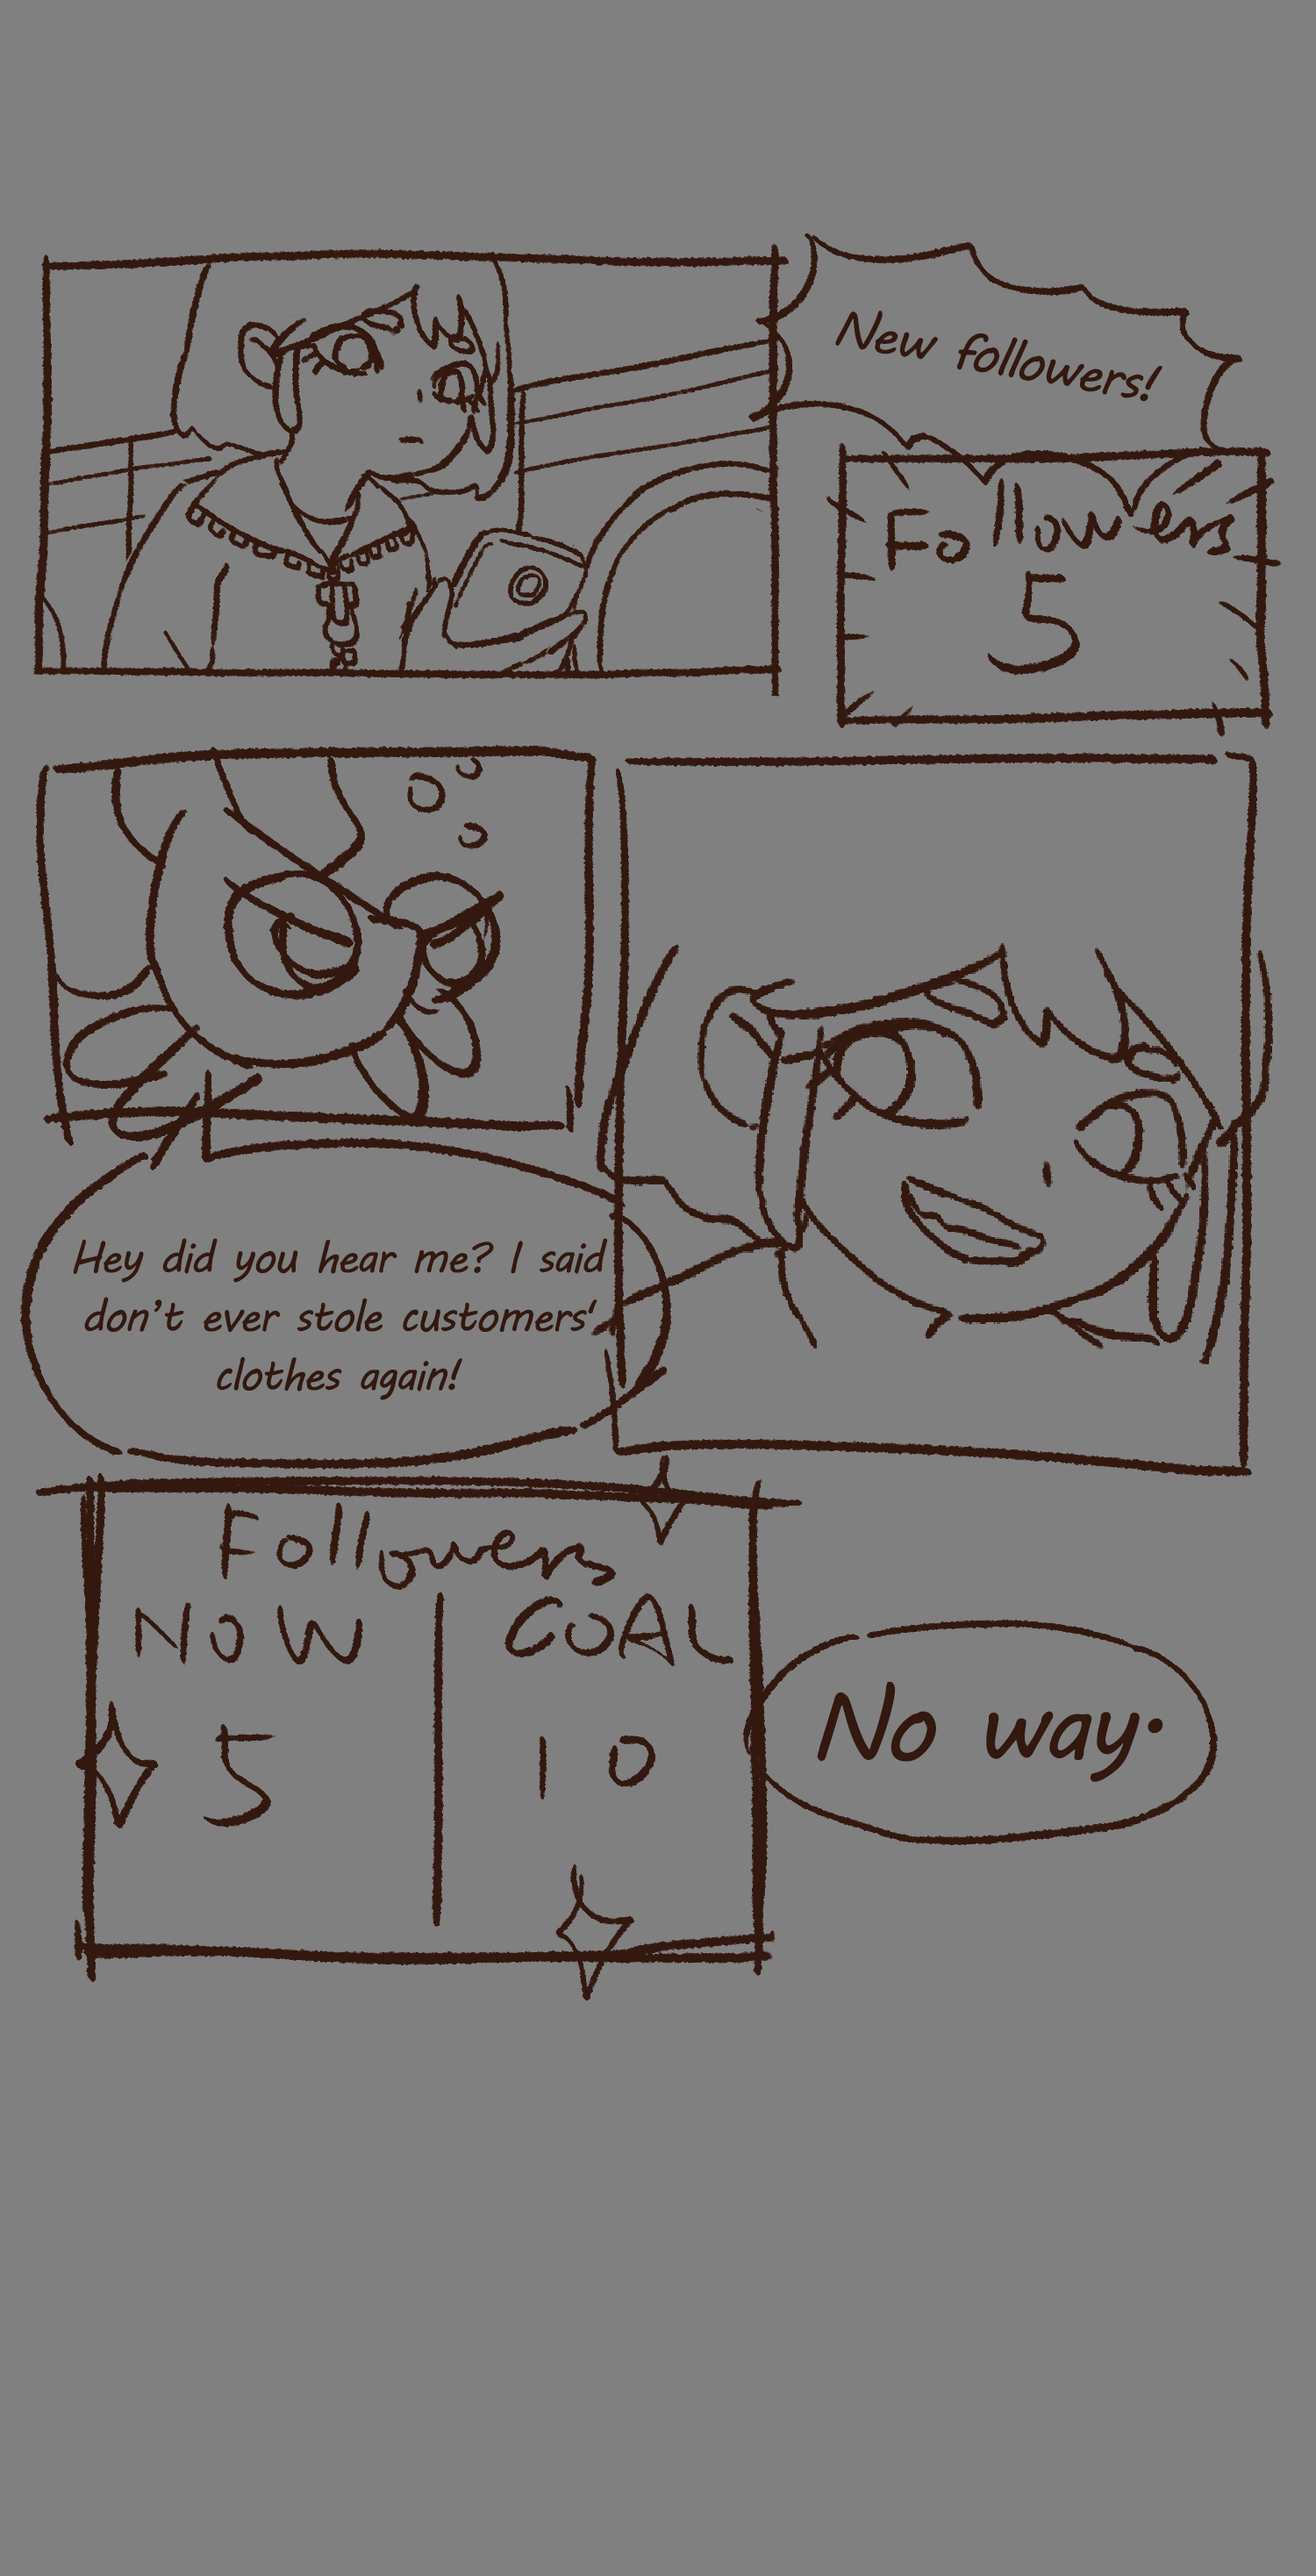
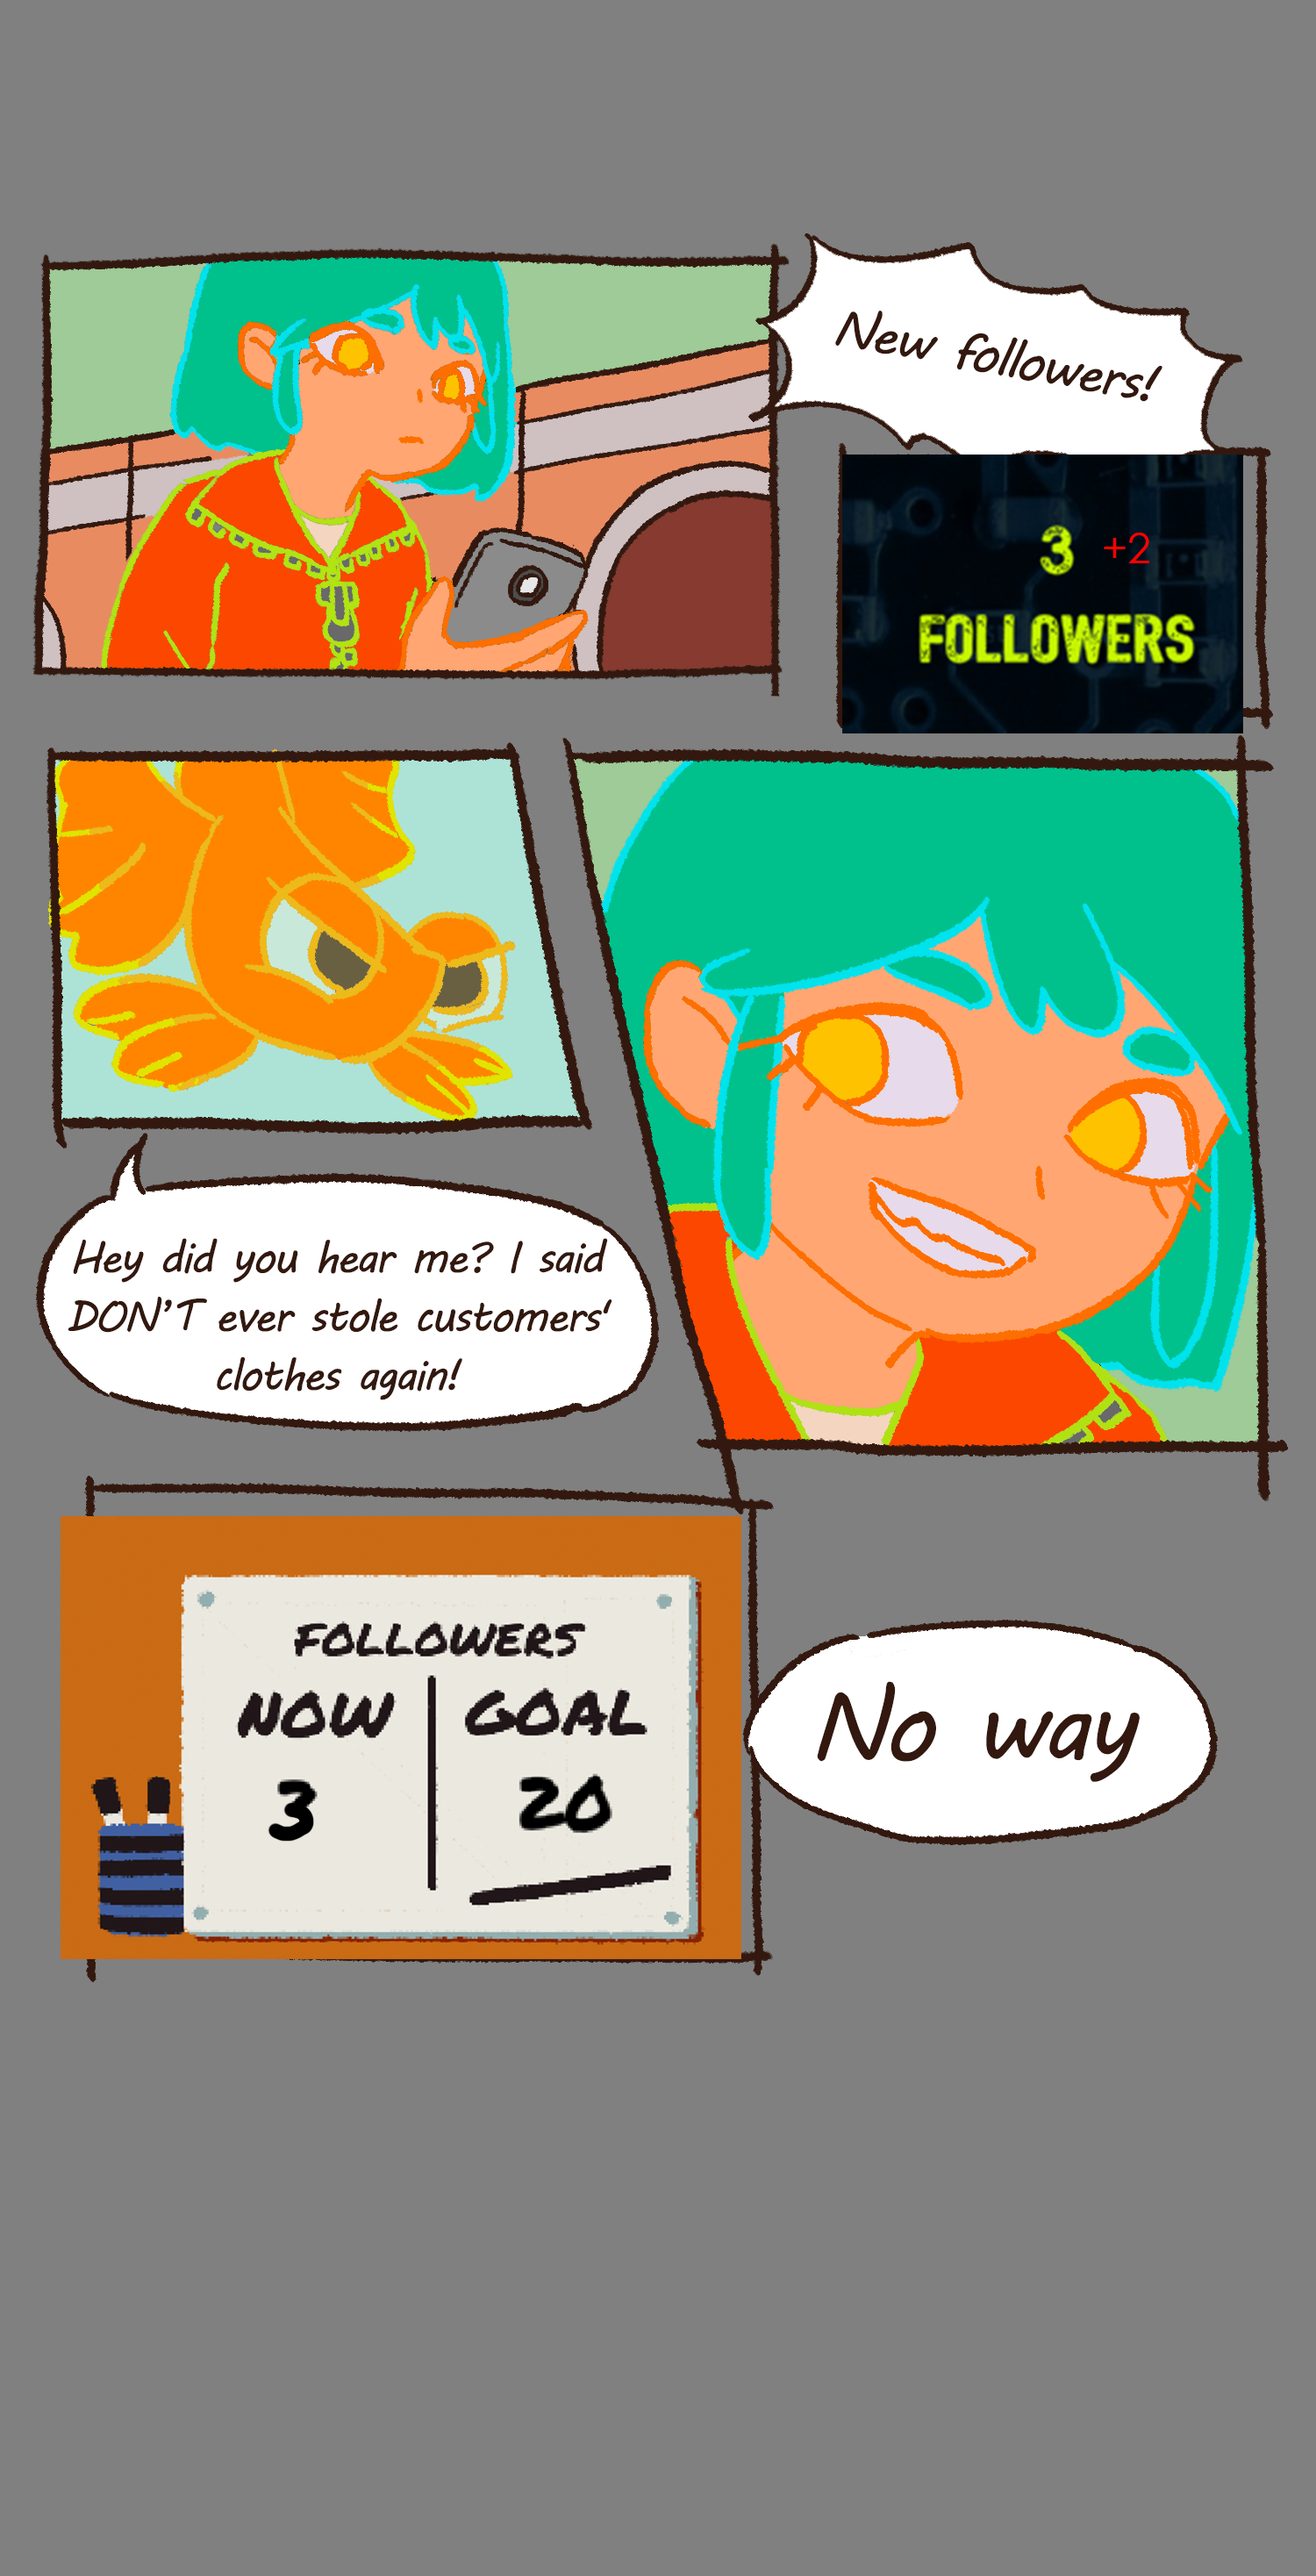
one step closer to done

diff --git a/Assets/Scripts/SubwayMovement.cs b/Assets/Scripts/SubwayMovement.cs
@@ -111,9 +111,10 @@ public class SubwayMovement : MonoBehaviour
 
         FinalCameraController = GameObject.Find("Main Camera").GetComponent<FinalCameraController>();
 
-        LevelManager = FinalCameraController.LevelManager;
         if(!FinalCameraController.isTutorial)
         {
+            LevelManager = FinalCameraController.LevelManager;
+
             bagPosAvailable.Add(false);
             bagPosAvailable.Add(false);
             bagPosAvailable.Add(false);
@@ -198,8 +199,8 @@ public class SubwayMovement : MonoBehaviour
     void Update()
     {
 
-        print("FinalCameraController.AllStationClothList.Count  =" + FinalCameraController.AllStationClothList.Count);
-        if (LevelManager.clicktime > 4)
+//        print("FinalCameraController.AllStationClothList.Count  =" + FinalCameraController.AllStationClothList.Count);
+        if (!FinalCameraController.isTutorial && LevelManager.clicktime > 4)
         {
             //instead of InvokeRepeating
             if (!isMoving)
@@ -585,7 +586,7 @@ public class SubwayMovement : MonoBehaviour
             if (FinalCameraController.AllStationClothList.Count == 0)//if all clothes are returned
             {
                 //if level one has just started
-                if (FinalCameraController.LevelManager.clicktime == 3)
+                if (!FinalCameraController.isTutorial && FinalCameraController.LevelManager.clicktime == 3)
                 {
                     FinalCameraController.LevelManager.clicktime = 4;
                 }

diff --git a/Assets/Scripts/LevelManager.cs b/Assets/Scripts/LevelManager.cs
@@ -52,6 +52,7 @@ public class LevelManager : MonoBehaviour
         {
             Hide(instructionCG);
             Show(GoBackSubway); 
+            Hide(hintArrowCG);
         }
         else if (clicktime == 5)//鱼开始说话
         {
@@ -117,7 +118,7 @@ public class LevelManager : MonoBehaviour
 
        
         Show(instructionCG);
-        StartCoroutine(AnimateText(instructionText, "Clothes are delivered in at each station.", false, null, Vector2.zero));//clicktime = 1;
+        StartCoroutine(AnimateText(instructionText, "Clothes are dropped in by customers at each station.", false, null, Vector2.zero));//clicktime = 1;
         Show(arrowButton);
 
 //        instructionText.text = "Clothes are delivered in at each station.";

diff --git a/Assets/Scripts/TouchController.cs b/Assets/Scripts/TouchController.cs
@@ -150,7 +150,7 @@ public class TouchController : MonoBehaviour
 //                    }                
 //                }
 
-                if (FinalCameraController.mySubwayState != FinalCameraController.SubwayState.One &&
+                if (FinalCameraController.isTutorial && FinalCameraController.mySubwayState != FinalCameraController.SubwayState.One &&
                     FinalCameraController.TutorialManager.tutorialNumber == 1)
                 {
                     FinalCameraController.Show(FinalCameraController.TutorialManager.GestureCG);

diff --git a/Assets/Scripts/TutorialManager.cs b/Assets/Scripts/TutorialManager.cs
@@ -766,6 +766,7 @@ public class TutorialManager : MonoBehaviour
                 if (FinalCameraController.mySubwayState == FinalCameraController.SubwayState.One)
                 {
                     tutorialDialogueState = DialogueState.fish;
+                    scrollControl(false);
 //                    fishText.text = "Lucky you! All clothes are automatically returned!";
                     StartCoroutine(AnimateText(fishText,  "Lucky you! All clothes are automatically returned!", false, null, Vector2.zero));
                     //clicktime = 20

diff --git a/Assets/Scripts/ScreenshotHandler.cs b/Assets/Scripts/ScreenshotHandler.cs
@@ -494,7 +494,7 @@ public class ScreenshotHandler : MonoBehaviour
             entryTime += 10;
             
             //if in the tutorial and taking the photo for the second time
-            if(FinalCameraController.TutorialManager.tutorialNumber == 13)
+            if(FinalCameraController.isTutorial && FinalCameraController.TutorialManager.tutorialNumber == 13)
             {
                 FinalCameraController.TutorialManager.tutorialNumber = 14;
                 

diff --git a/Assets/Scripts/FinalCameraController.cs b/Assets/Scripts/FinalCameraController.cs
@@ -435,7 +435,7 @@ public class FinalCameraController : MonoBehaviour
             TutorialManager.scrollControl(true);
         }
 
-        if (LevelManager.isInstruction)//换到鱼界面
+        else if (LevelManager.isInstruction)//换到鱼界面
         {
             myHSS.GoToScreen(1);
             LevelManager.clicktime = 5;
